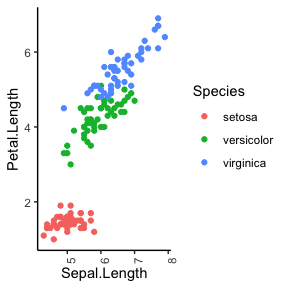
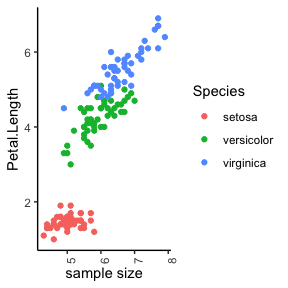
added quote tokens

Changed region(s): [[0.2188, 0.9062, 0.5312, 1.0]]

diff --git a/README.md b/README.md
@@ -83,13 +83,15 @@ natural language:
 
 <img src="man/figures/README-example_hide_legend-1.png" width="50%" />
 
-Or, say we want to rotate the labels of the x axis:
+Or, say we want to rotate the labels of the x axis and rename the axis
+label:
 
     ggplot(data=iris, 
            mapping=aes(x=Sepal.Length, 
                       y=Petal.Length, color=Species))+
       geom_point()+
-      gg_("rotate x-axis labels by 90°")
+      gg_("rotate x-axis labels by 90°")+
+      gg_("set x-axis label to 'sample size'")
 
 <img src="man/figures/README-example_rotate_labels-1.png" width="50%" />
 
